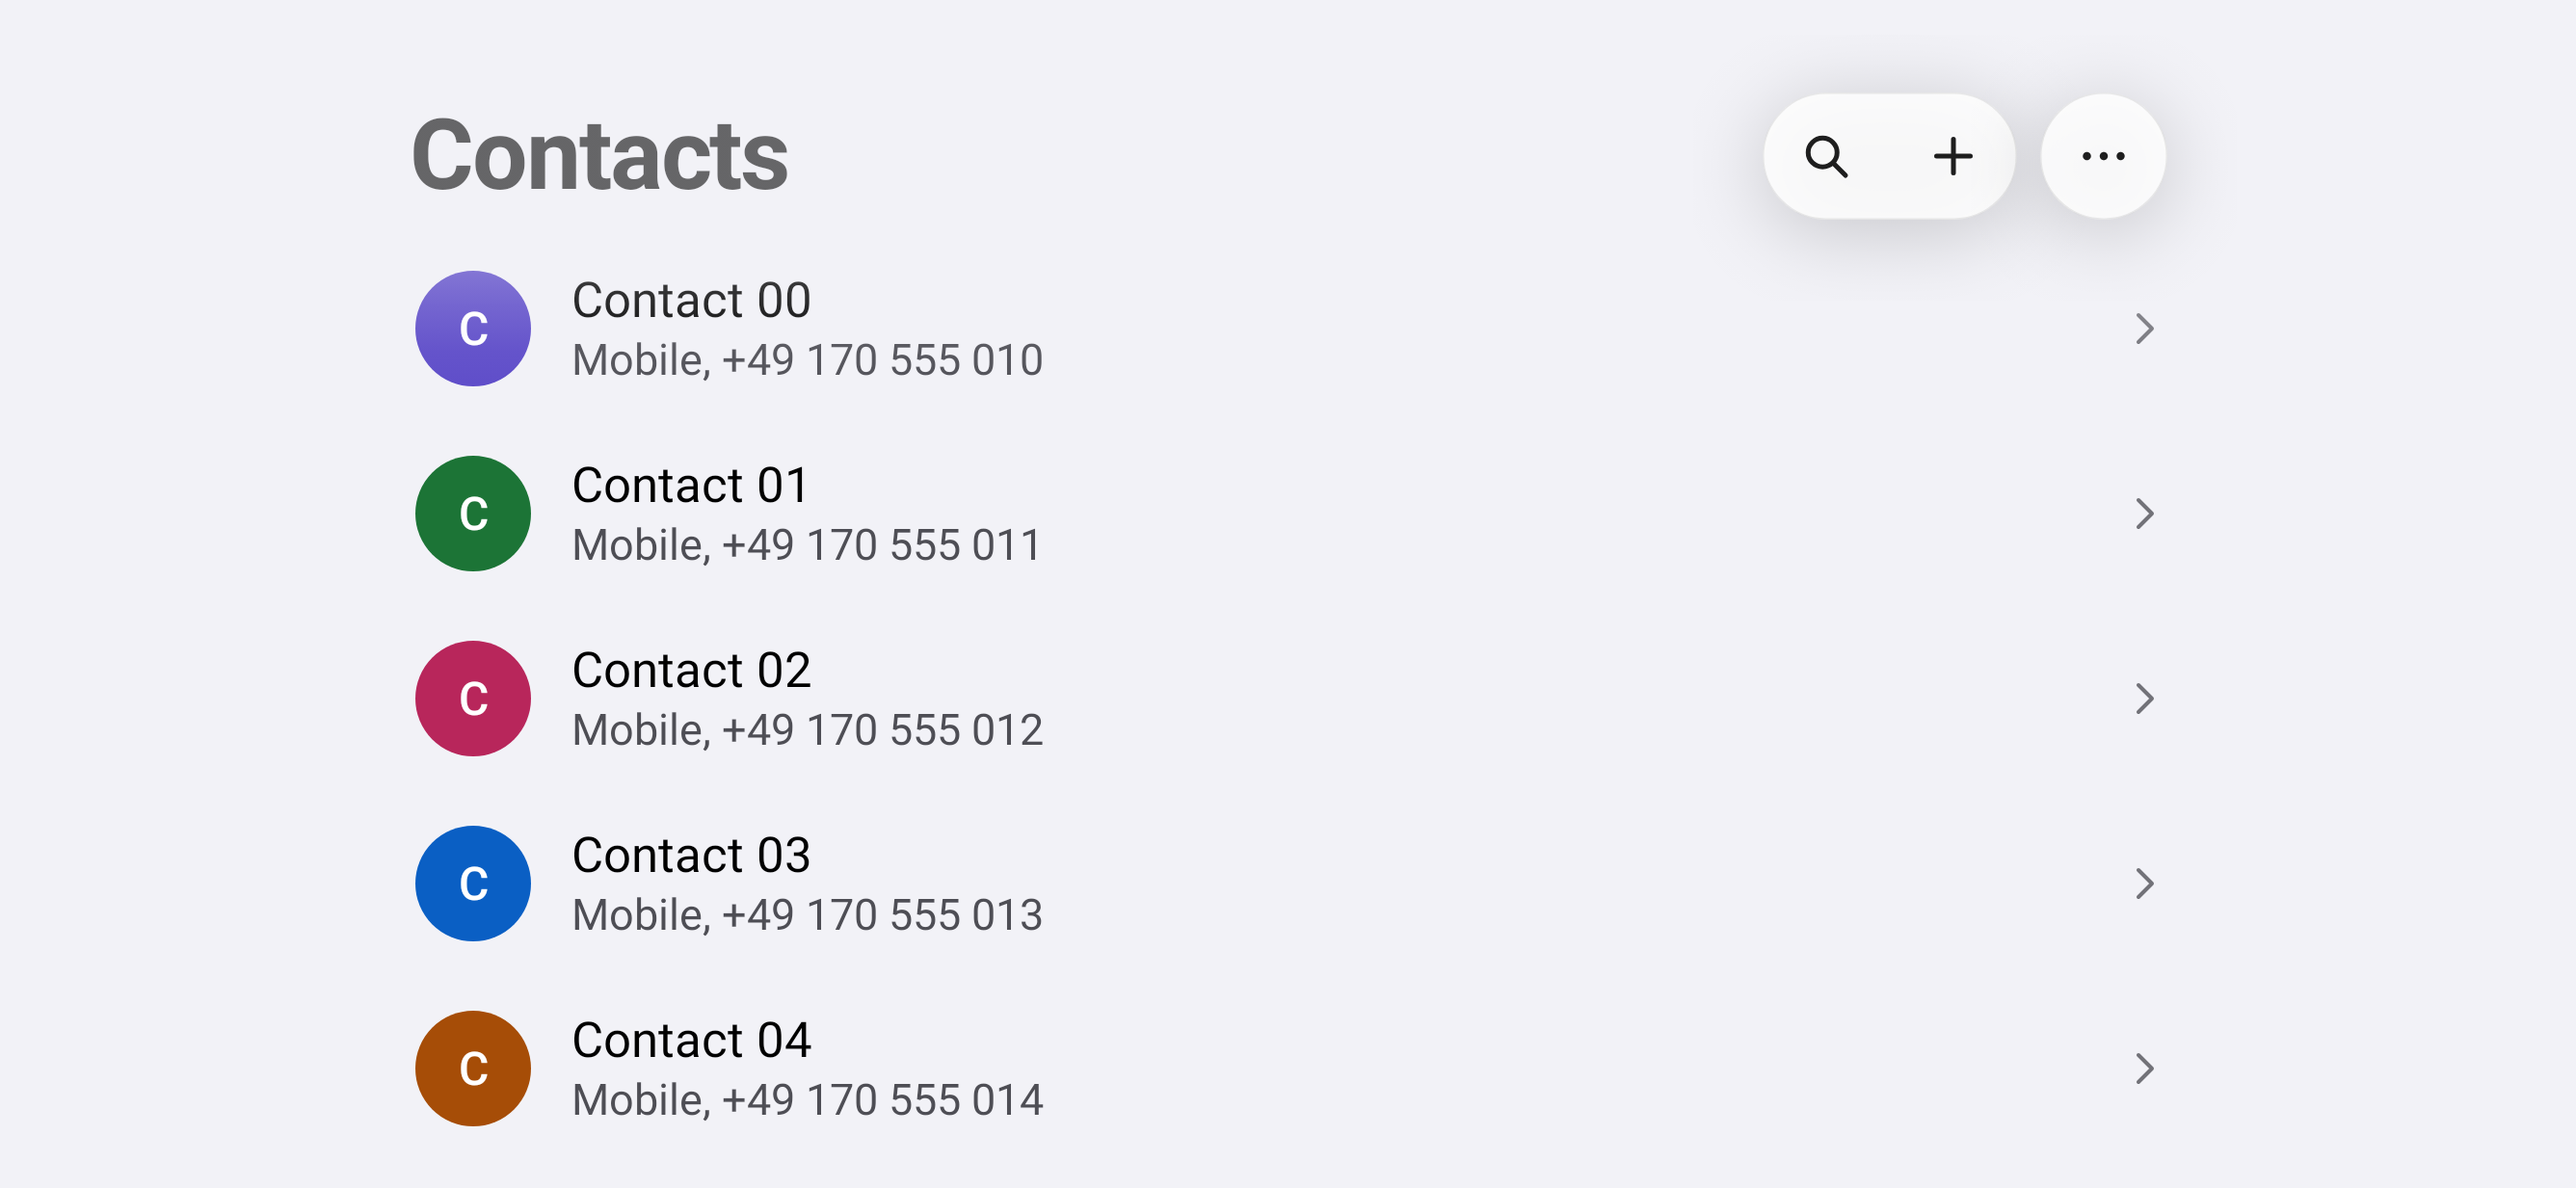
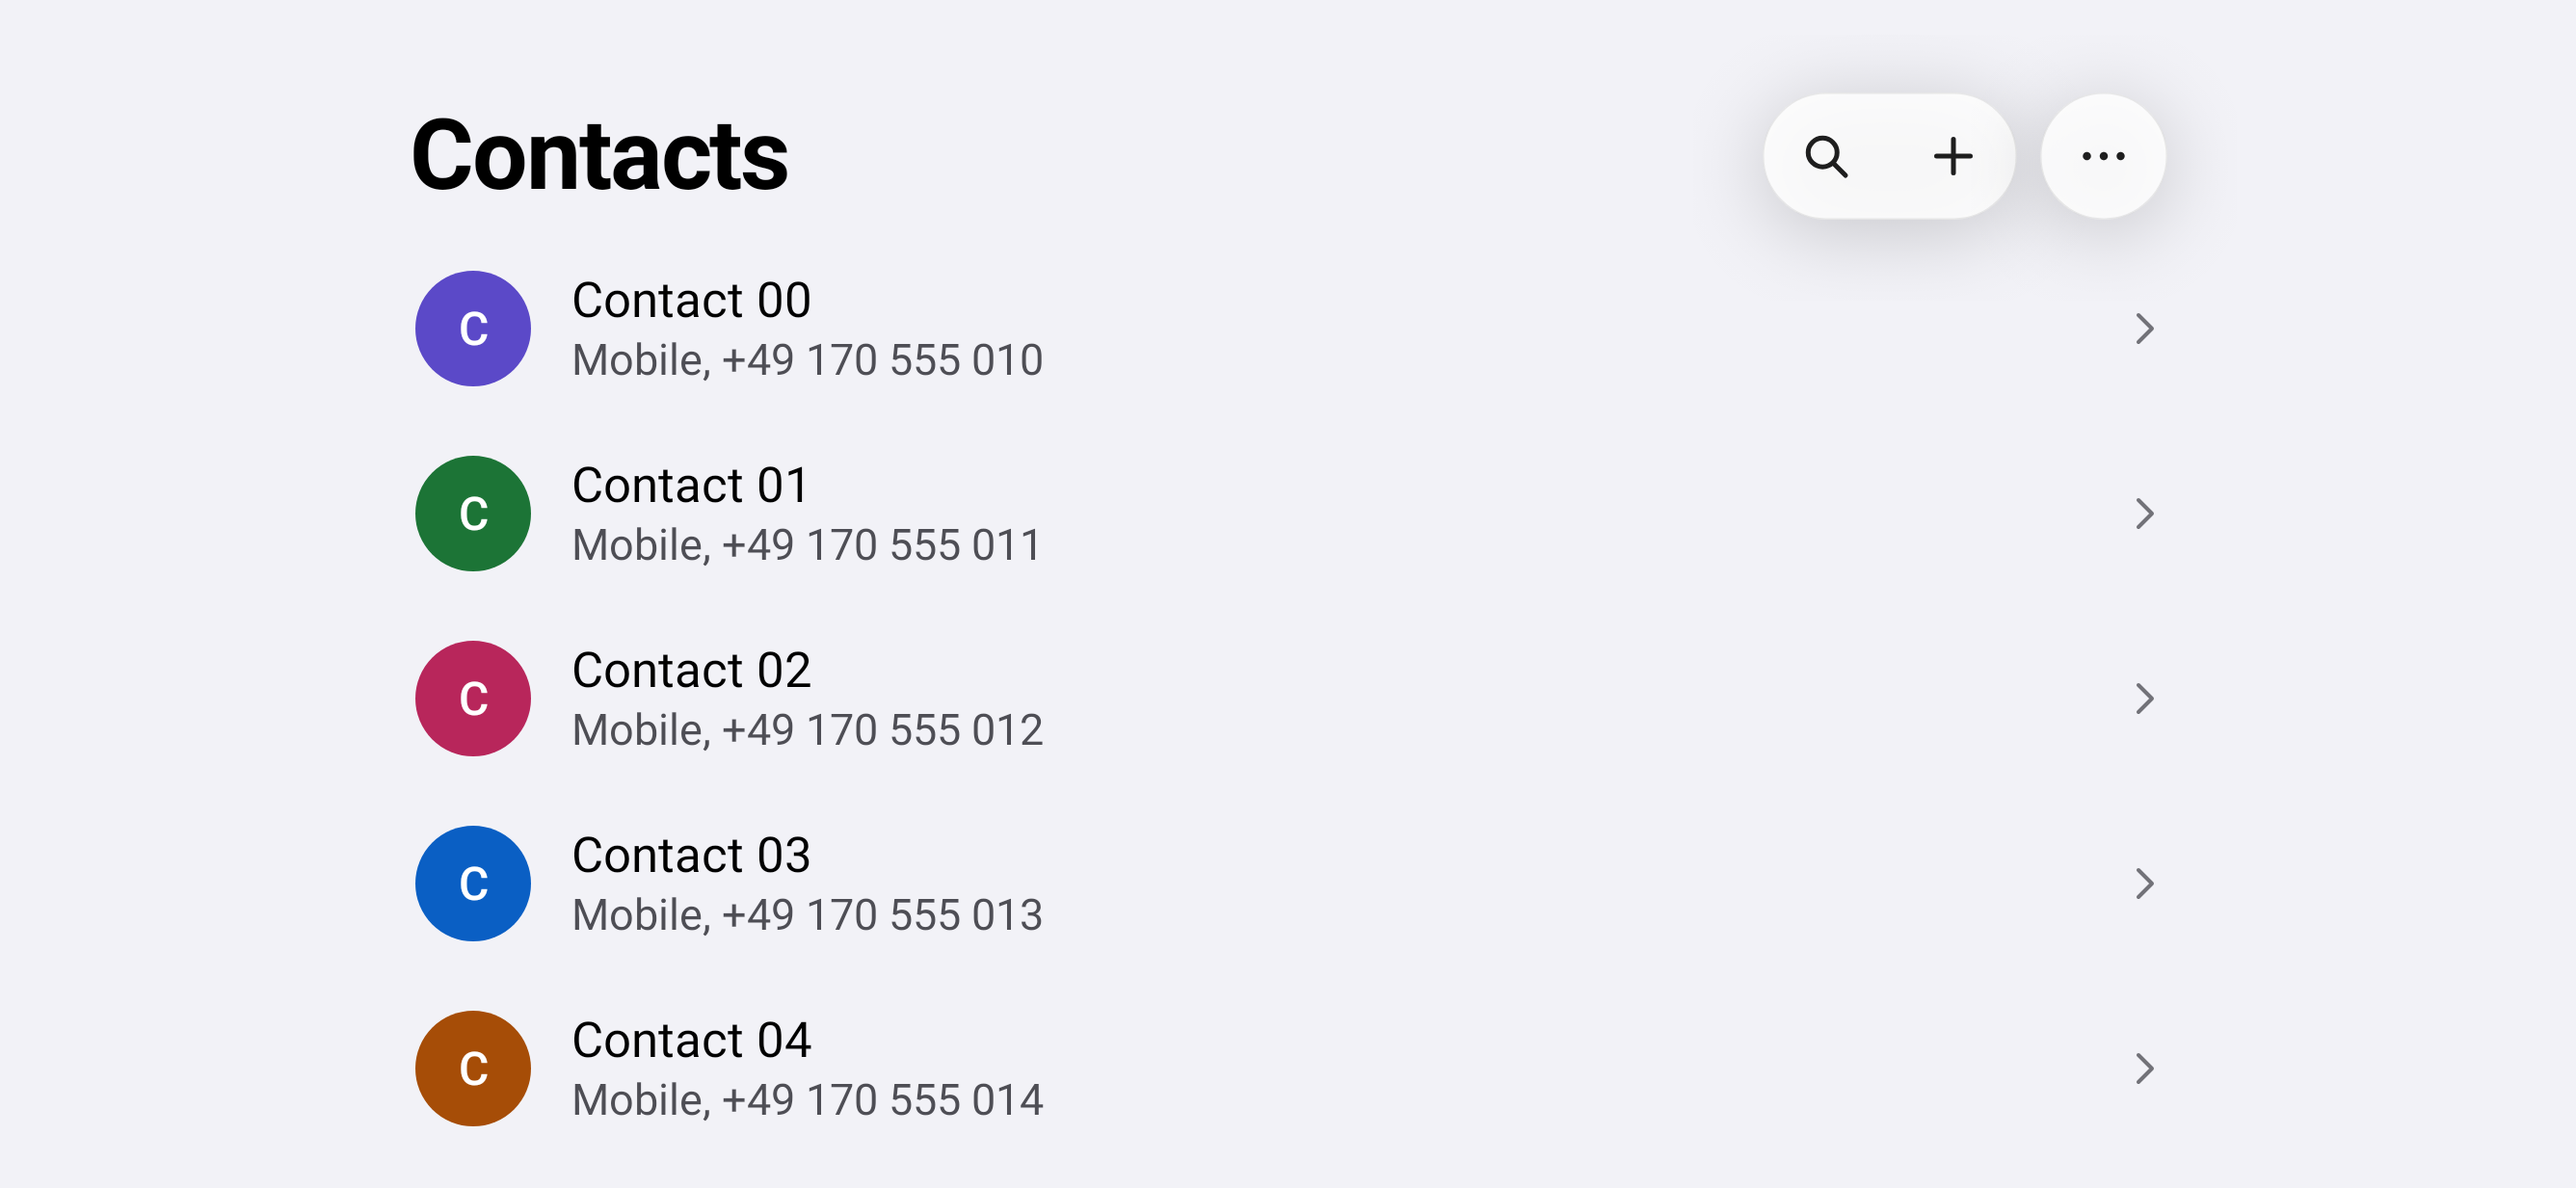
Kotlin UI (E1): review fixes
Claude-Session: https://claude.ai/code/session_011osUpA1K6vuojYE5Xq1SJx

Changed region(s): [[0.1553, 0.0925, 0.3105, 0.1849], [0.1553, 0.2157, 0.3105, 0.2774]]

diff --git a/android/design/src/main/kotlin/dev/rovsti/design/chrome/LargeTitleScaffold.kt b/android/design/src/main/kotlin/dev/rovsti/design/chrome/LargeTitleScaffold.kt
@@ -46,7 +46,6 @@ import androidx.compose.ui.text.style.TextOverflow
 import androidx.compose.ui.unit.Dp
 import androidx.compose.ui.unit.LayoutDirection
 import androidx.compose.ui.unit.dp
-import androidx.compose.ui.util.lerp
 import dev.rovsti.design.glass.GlassSource
 import dev.rovsti.design.glass.LocalGlassConditions
 import dev.rovsti.design.glass.glassSource
@@ -67,7 +66,7 @@ object ScaffoldSpec {
     /** The large title rises this far while it fades. */
     val TitleLift: Dp = 12.dp
 
-    /** The most page colour the scrim ever lays over the content. */
+    /** Default peak of the scrim stop curve (the live scrim scales it by the title collapse, see TopScrim). */
     const val ScrimPeak = 0.42f
 
     /** Once the title has collapsed, rows pass under the inline title, so the scrim over the bar firms up to this. */
@@ -279,7 +278,9 @@ private fun TopScrim(
             .fillMaxWidth()
             .height(total)
             .drawBehind {
-                val peak = lerp(ScaffoldSpec.ScrimPeak, ScaffoldSpec.ScrimPeakCollapsed, collapse.value)
+                // The expanded title lives in the list under this scrim, so no page colour may lie over it (it would grey the
+                // title out); the scrim only firms up as the title leaves and rows start to pass under the bar.
+                val peak = ScaffoldSpec.ScrimPeakCollapsed * collapse.value
                 val brush =
                     Brush.verticalGradient(
                         colorStops =

diff --git a/android/catalog/src/test/kotlin/dev/rovsti/catalog/SmallWindowShotTest.kt b/android/catalog/src/test/kotlin/dev/rovsti/catalog/SmallWindowShotTest.kt
@@ -1,0 +1,29 @@
+package dev.rovsti.catalog
+
+import dev.rovsti.testing.ShotTest
+import org.junit.Test
+import org.robolectric.annotation.Config
+
+/** Review shots on a 360 x 640 dp window, the smallest phone the apps must hold together on. */
+@Config(qualifiers = "w360dp-h640dp-xxhdpi")
+class SmallWindowShotTest : ShotTest() {
+    @Test
+    fun tabBar() {
+        shot("e1.7-tabbar-360x640") { TabBarPage(imeVisible = { false }) }
+    }
+
+    @Test
+    fun title() {
+        shot("e1.8-title-360x640") { LargeTitlePage() }
+    }
+
+    @Test
+    fun rows() {
+        shot("e1.6-rows-360x640") { CatalogApp(initialPage = CatalogPage.Rows) }
+    }
+
+    @Test
+    fun buttons() {
+        shot("e1.6-buttons-360x640") { CatalogApp(initialPage = CatalogPage.Buttons) }
+    }
+}
